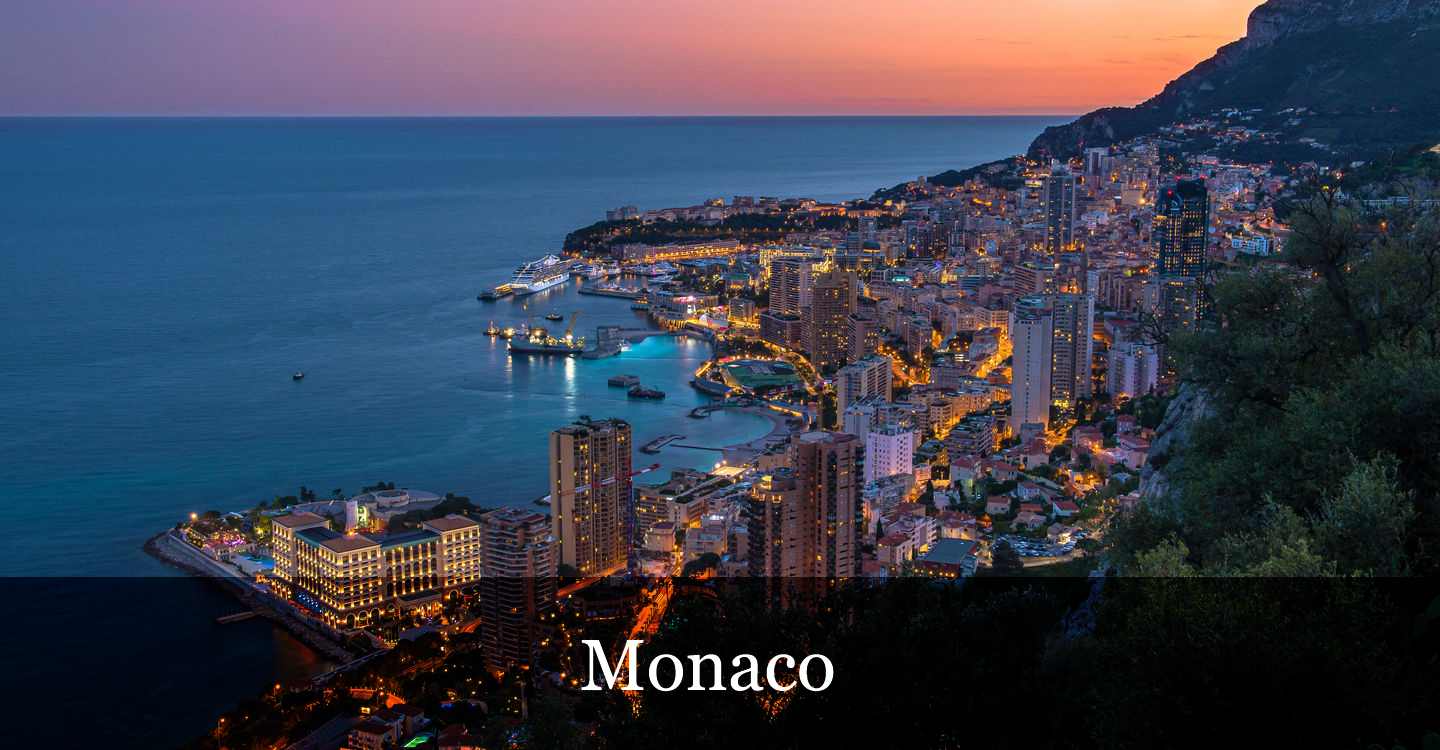
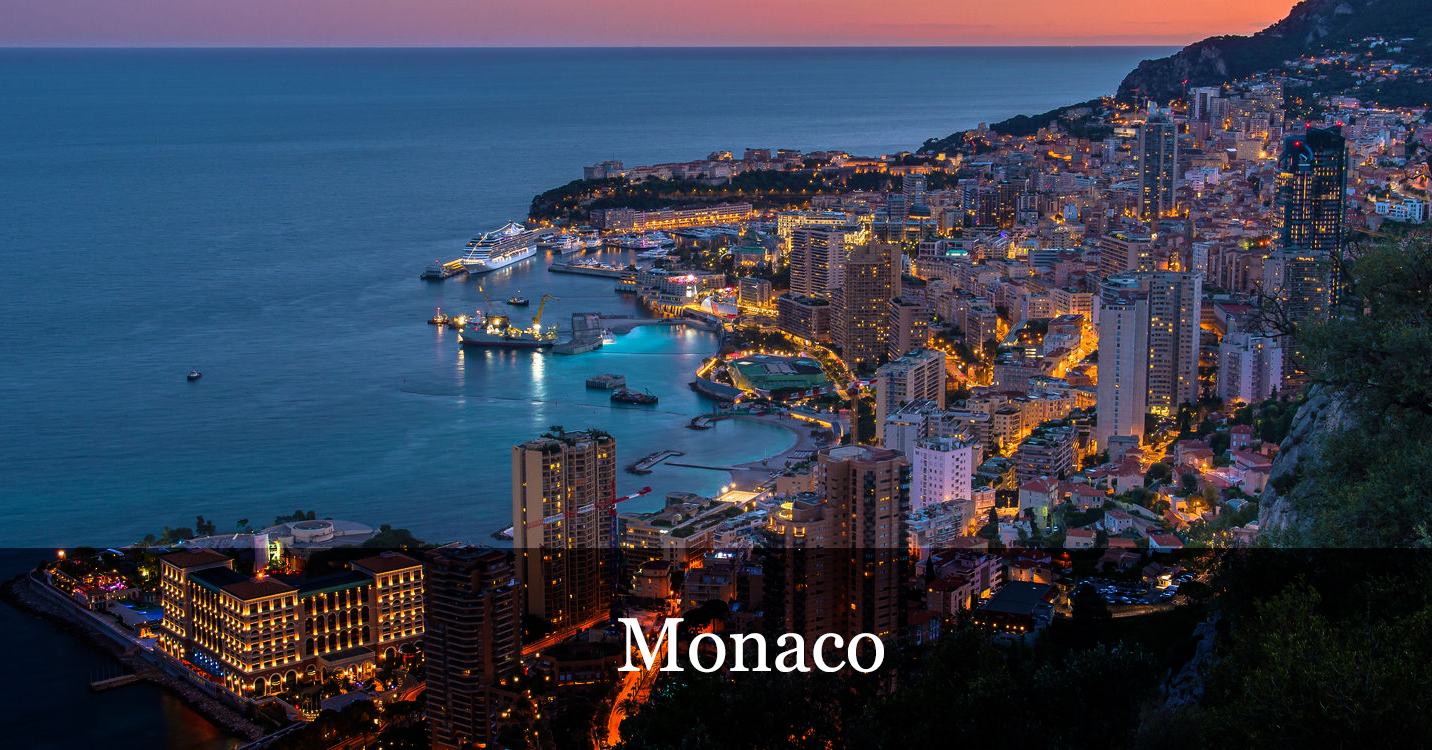
Aggiornamenti, Modifica foto, background-color

diff --git a/src/main/webapp/WEB-INF/view/lavorazione.html b/src/main/webapp/WEB-INF/view/lavorazione.html
@@ -1,0 +1,42 @@
+<!DOCTYPE html>
+<html lang="en" xmlns:th="http://www.thymeleaf.org">
+<head>
+    <meta charset="UTF-8">
+    <meta http-equiv="X-UA-Compatible" content="IE=edge">
+    <meta name="viewport" content="width=device-width, initial-scale=1.0">
+    <title>Home</title>
+    <link href="https://cdn.jsdelivr.net/npm/bootstrap@5.2.0/dist/css/bootstrap.min.css" rel="stylesheet"
+        integrity="sha384-gH2yIJqKdNHPEq0n4Mqa/HGKIhSkIHeL5AyhkYV8i59U5AR6csBvApHHNl/vI1Bx" crossorigin="anonymous">
+    <script src="https://cdn.jsdelivr.net/npm/bootstrap@5.2.0/dist/js/bootstrap.bundle.min.js"
+        integrity="sha384-A3rJD856KowSb7dwlZdYEkO39Gagi7vIsF0jrRAoQmDKKtQBHUuLZ9AsSv4jD4Xa"
+        crossorigin="anonymous"></script>
+        <script src="https://ajax.googleapis.com/ajax/libs/jquery/3.6.0/jquery.min.js"></script>
+        <link rel="stylesheet" th:href="@{/static/css/area_free.css}">
+</head>
+<body>
+    <div class="container p-0">
+        <header>
+            <div class="row">
+                <header class="col-12" th:replace="../template/template :: header"></header>
+            </div>
+        </header>
+        <div class="row" id="menu">
+            <!--Menu-->
+            <div class="col-12" id="menu">
+                <nav th:replace="../template/template :: navFragment"></nav>
+            </div>
+        </div>
+        <section>
+            <div class="row">
+                <aside class="col-4" th:replace="../template/template :: asideSinistra"></aside><!--asideSinistra-->
+                <div class="col-4" id="centro">
+                    <img th:src="@{/static/img/gif-animata-Pagina-in-costruzione.gif}" alt="In lavorazione" width="500px">
+                </div>
+                <aside class="col-4" th:replace="../template/template :: asideDestra"></aside>
+            </div>
+        </section>
+        <footer th:replace="../template/template :: footerFragment"></footer>
+        <script th:src="@{static/javascript/index.js}" type="text/javascript"></script>
+    </div>
+</body>
+</html>

diff --git a/src/main/webapp/WEB-INF/template/template.html b/src/main/webapp/WEB-INF/template/template.html
@@ -16,7 +16,7 @@
 <body>
   <!--header-->
   <div class="col-12" th:fragment="header">
-    <img th:src="@{/static/img/aereo.jpg}" class="img-fluid" alt="" id="fotoHome">
+    <img th:src="@{/static/img/aereoM.jpg}" class="img-fluid" alt="" id="fotoHome">
   </div>
   <!--fine header-->
   <!--aside sinistra-->
@@ -104,9 +104,9 @@
       </div>
       <div class="col-4">
         <h5>Lingue</h5>
-        <p>Inglese</p>
-        <p>Italiano</p>
-        <p>Spagnolo</p>
+        <a th:href="@{/WEB-INF/view/lavorazione.html}" target="_blank">Inglese</a><br/>
+        <a th:href="@{/WEB-INF/view/lavorazione.html}" target="_blank">Italiano</a><br/>
+        <a th:href="@{/WEB-INF/view/lavorazione.html}" target="_blank">Spagnolo</a><br/>
       </div>
     </div>
   </footer>

diff --git a/src/main/webapp/static/css/admin.css b/src/main/webapp/static/css/admin.css
@@ -39,3 +39,10 @@ form {
 .titoloTabella{
     text-align: center;
 }
+.container{
+    background-color: rgb(211, 211, 211);
+}
+a{
+    text-decoration: none;
+    color: white;
+}

diff --git a/src/main/webapp/static/css/area_utente.css b/src/main/webapp/static/css/area_utente.css
@@ -49,5 +49,5 @@ textarea{
     width: 100px;
 }
 .container{
-    background-color: rgb(156, 153, 153);
+    background-color: rgb(211, 211, 211);
 }

diff --git a/src/main/webapp/static/css/area_free.css b/src/main/webapp/static/css/area_free.css
@@ -36,3 +36,6 @@ input{
 form {
     text-align: left;
 }
+.container{
+    background-color: rgb(211, 211, 211);
+}

diff --git a/src/main/webapp/static/css/login.css b/src/main/webapp/static/css/login.css
@@ -34,3 +34,6 @@ form {
 span{
 	font-size: 11px;
 }
+.container{
+    background-color: rgb(211, 211, 211);
+}

diff --git a/src/main/webapp/static/javascript/index.js b/src/main/webapp/static/javascript/index.js
@@ -8,5 +8,6 @@ $(document).ready(function(){
             $(this).css("width","300px")
     });
 
+    
 
 });
